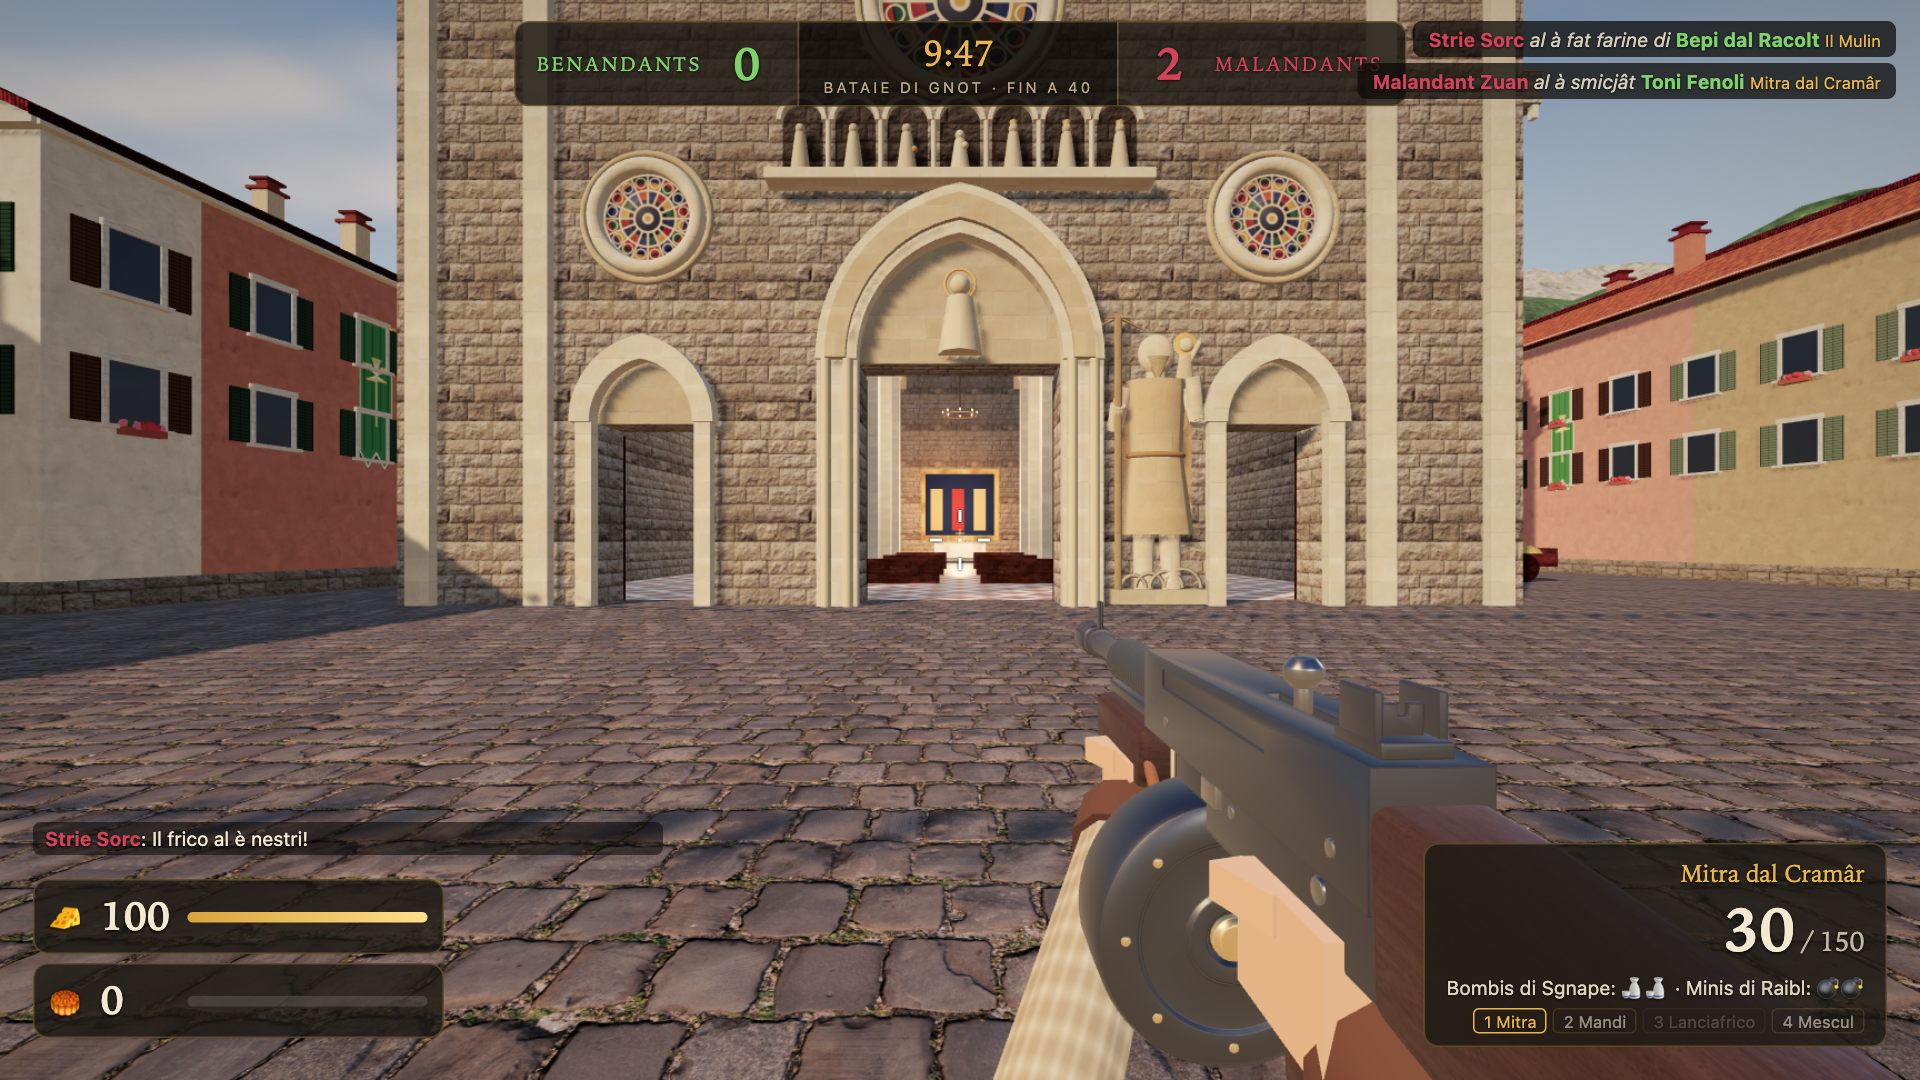
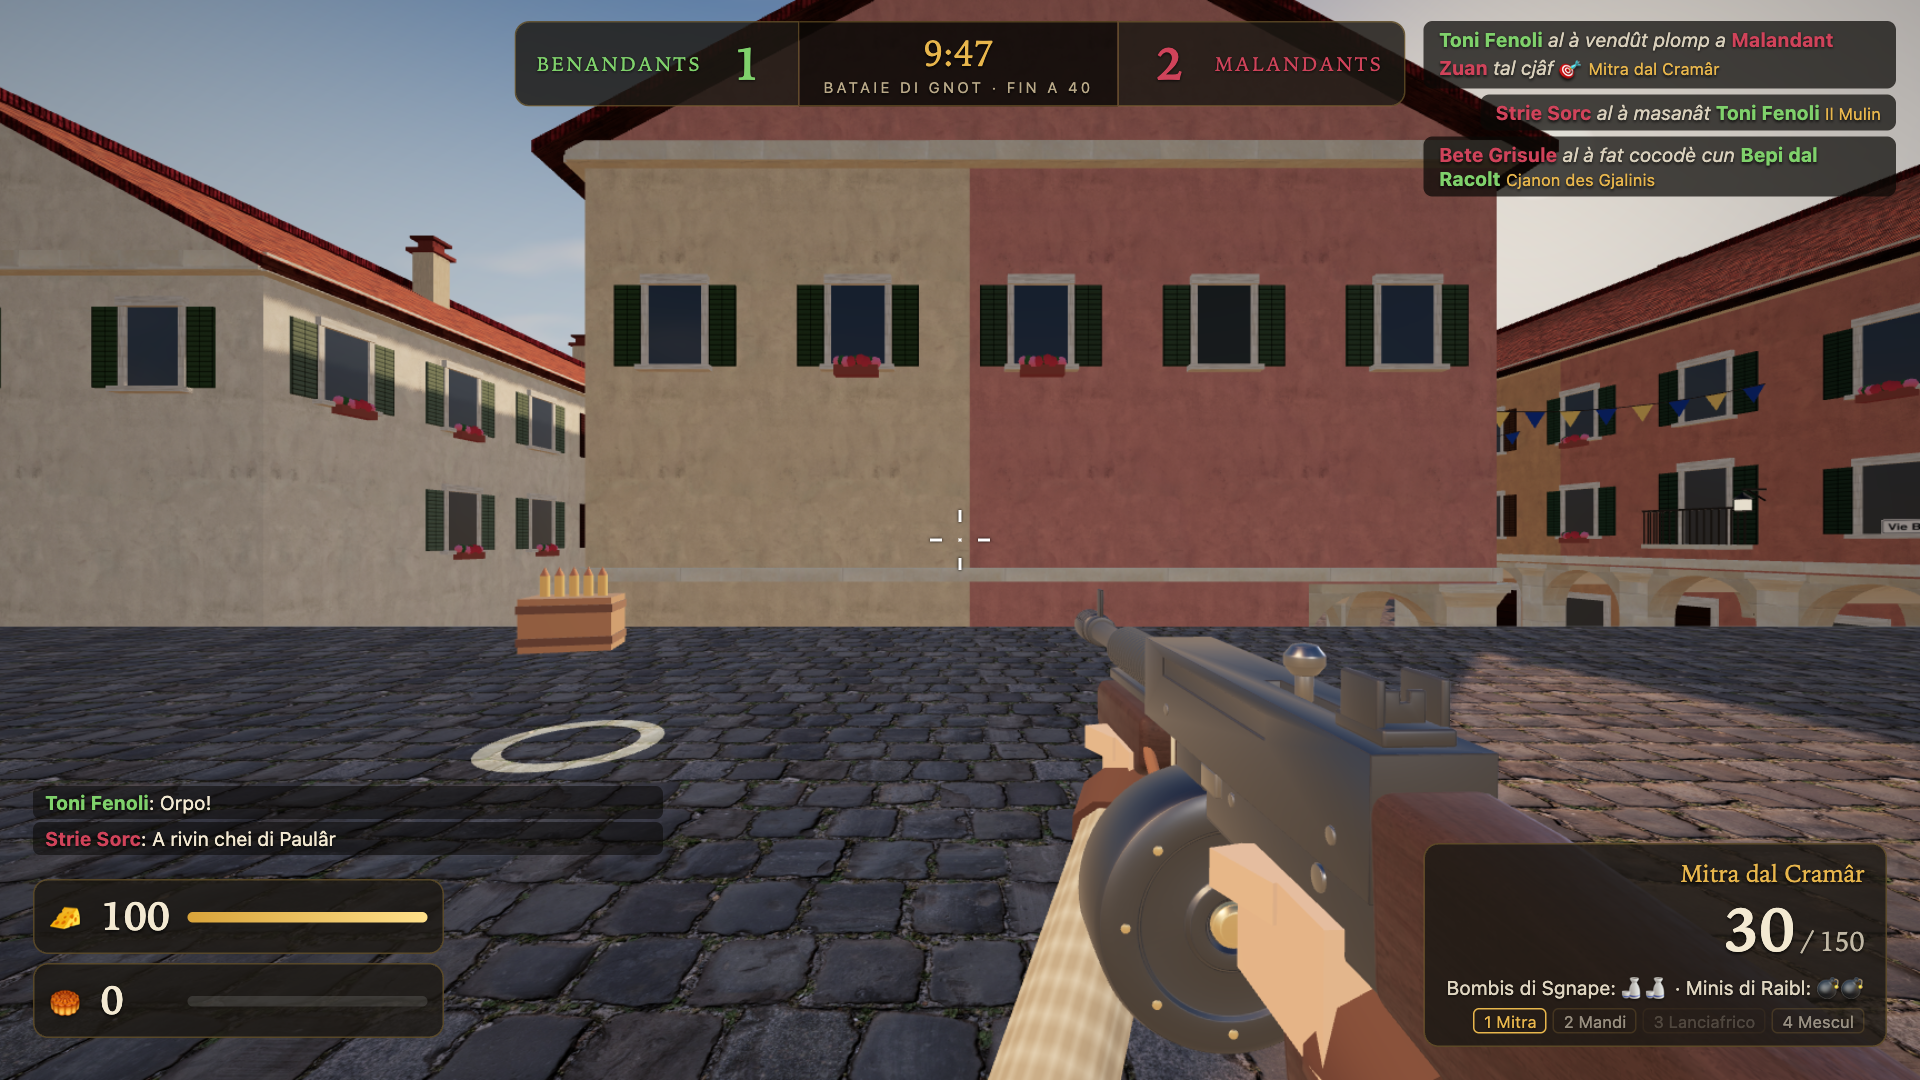
fix: keep the kill feed beside the scoreboard on desktop
The score and the kill feed now share one grid at the top of the
keyboard-and-mouse HUD: the score in the middle column, the feed in the
column on its right, its long lines wrapping to that column. When the
column is narrower than 260 px the feed goes under the score, on the
right. On touch the two new wrappers are display: contents, so the touch
HUD lays the panels out as before.

The desktop match showcase picture is taken again.

Closes #91

diff --git a/client/style.css b/client/style.css
@@ -200,7 +200,13 @@ button kbd { margin-inline-start: 6px; opacity: 0.7; }
 #hitmarker.kill { filter: sepia(1) saturate(8) hue-rotate(-40deg); transform: scale(1.4); }
 @keyframes hit { 0% { opacity: 1; transform: scale(1.3); } 100% { opacity: 0; transform: scale(1); } }
 
-#topbar { position: absolute; top: 14px; left: 50%; transform: translateX(-50%); display: flex; align-items: stretch; gap: 0; }
+/*
+ * The top of the screen: the score centred, the kill feed in the room on its right, never under the
+ * score. Its long lines wrap to the room; when the room is too narrow even for that, the feed goes
+ * under the score, on the right.
+ */
+#hud-top { position: absolute; inset-block-start: 14px; inset-inline: 16px; display: grid; grid-template-columns: minmax(0, 1fr) auto minmax(0, 1fr); column-gap: 12px; align-items: start; }
+#topbar { grid-column: 2; display: flex; align-items: stretch; gap: 0; }
 #topbar .score { display: flex; align-items: center; gap: 10px; padding: 6px 14px; background: var(--stone); border: 1px solid var(--stone-line); font-family: var(--serif); }
 #topbar .score b { font-size: 30px; min-width: 40px; text-align: center; }
 #topbar .score.ben { border-radius: 10px 0 0 10px; color: var(--ben); }
@@ -213,8 +219,12 @@ button kbd { margin-inline-start: 6px; opacity: 0.7; }
 #objective .hillbar { height: 4px; border-radius: 2px; background: rgba(255, 255, 255, 0.15); margin-top: 3px; overflow: hidden; }
 #objective .hillbar i { display: block; height: 100%; }
 
-#killfeed { position: absolute; top: 14px; right: 16px; display: flex; flex-direction: column; align-items: flex-end; gap: 4px; font-size: 13px; }
-#killfeed .kf { background: rgba(10, 8, 6, 0.72); padding: 4px 10px; border-radius: 6px; animation: rise 0.2s; }
+#killfeed-room { grid-column: 3; align-self: stretch; container-type: inline-size; display: flex; justify-content: flex-end; }
+#killfeed { min-inline-size: 0; display: flex; flex-direction: column; align-items: flex-end; gap: 4px; font-size: 13px; }
+#killfeed .kf { max-inline-size: 100%; overflow-wrap: anywhere; background: rgba(10, 8, 6, 0.72); padding: 4px 10px; border-radius: 6px; animation: rise 0.2s; }
+@container (inline-size < 260px) {
+  #hud:not(.touch) #killfeed { position: absolute; inset-block-start: calc(100% + 8px); inset-inline-end: 0; inline-size: max-content; max-inline-size: 22rem; }
+}
 #killfeed .kf.me { border: 1px solid var(--gold); }
 #killfeed em { font-style: italic; opacity: 0.85; }
 #killfeed .w { color: var(--gold); font-size: 11px; }
@@ -737,9 +747,11 @@ html.in-match[data-device="touch"] :is(.overlay, input) { user-select: text; -we
  * the area client/touch.ts leaves free of the controls (--free-*, set once per size), the chat and
  * the turret at its foot, the crosshair's middle clear. The vitals are two rings where the layout
  * puts them; the rounds are on the weapon's control, the bombs and mines on their buttons. On a
- * desktop the two wrappers are `display: contents` and nothing here applies.
+ * desktop the two wrappers are `display: contents` and nothing here applies; the top's two
+ * (#hud-top, #killfeed-room) are the other way round, a layout on a desktop and invisible here.
  */
 #hud-free, #hud-status { display: contents; }
+#hud.touch :is(#hud-top, #killfeed-room) { display: contents; }
 #hud.touch #hud-free { position: absolute; inset-inline-start: var(--free-l); inset-block-start: var(--free-t); inline-size: var(--free-w); block-size: var(--free-h);
   display: flex; flex-direction: column; align-items: center; gap: 4px; }
 #hud.touch :is(#turret-prompt, #panel-prompt, #panel-hud, #turret-hud, #topbar, #killfeed, #banner, #chat, #training) { position: static; inset: auto; transform: none; }

diff --git a/client/index.html b/client/index.html
@@ -259,6 +259,8 @@
       <div id="panel-hud" class="hidden"><span id="panel-hp-label"></span><div class="bar"><i id="panel-hp"></i></div></div>
       <div id="turret-hud" class="hidden"><span id="turret-label"></span><div class="bar"><i id="turret-heat"></i></div></div>
 
+      <!-- The top of the screen: the score in the middle, the kill feed in the room on its right. -->
+      <div id="hud-top">
       <div id="topbar">
         <div class="score ben"><span class="team-name" id="name-ben"></span><b id="score-ben">0</b></div>
         <div class="center-info">
@@ -269,7 +271,8 @@
         <div class="score mal"><b id="score-mal">0</b><span class="team-name" id="name-mal"></span></div>
       </div>
 
-      <div id="killfeed"></div>
+      <div id="killfeed-room"><div id="killfeed"></div></div>
+      </div>
       <div id="announce"></div>
       <div id="banner"></div>
       <!-- The training: the station, the step to do, the confirmation of a step done. -->
